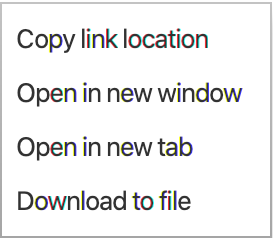
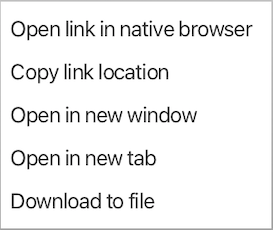
updated screenshots, added spacing

Changed region(s): [[0.0, 0.0, 1.0, 1.0]]

diff --git a/docs/Quick_Tour_of_Cytoscape.md b/docs/Quick_Tour_of_Cytoscape.md
@@ -236,17 +236,18 @@ An example where a number of networks have been loaded is shown below:
 
 The network manager (in the **Control Panel**) shows the networks that are
 loaded. Clicking on a network here will make that view active in the
-main window, if the view exists. Each network has a name and size
-(number of nodes and edges), which are shown in the network manager. The number 
-of nodes and edges is shown by default but this can be disabled under 
-**Options → Show Number of Nodes and Edges**. 
-If a network is loaded from a file, the network name is the name of the
-file. The list of networks can be sorted alphabetically by network name by clicking on the 
-**Options** button at the top right and selecting **Sort Network by Name**. 
-By default, the network provenance history is also shown in the **Network Panel**, for example
-showing if a network originated as a subnetwork from another network. This can be disabled under 
-**Options → Show Network Provenance History**.
+main window, if the view exists. 
+-   Each network has a name and size (number of nodes and edges), which are shown in the network manager. 
+    The number of nodes and edges is shown by default but this can be disabled under **Options → Show Number of Nodes and Edges**. 
 
+-   If a network is loaded from a file, the network name is the name of the
+    file. The list of networks can be sorted alphabetically by network name by clicking on the 
+    **Options** button at the top right and selecting **Sort Network by Name**. 
+
+-   By default, the network provenance history is also shown in the **Network Panel**, for example
+    showing if a network originated as a subnetwork from another network. This can be disabled under 
+    **Options → Show Network Provenance History**.
+  
 Some networks are very large (thousands of nodes and edges) and can take
 a long time to display. For this reason, a network in Cytoscape may not
 contain a view. Networks that have a view are in normal black font and

diff --git a/docs/CyBrowser.md b/docs/CyBrowser.md
@@ -2,9 +2,9 @@
 # Cytoscape Web Browser
 
 Cytoscape includes a simple web browser that can be used for viewing 
-web sites from within Cytoscape.  It is also used by Cytoscape apps,
+web sites from within Cytoscape. It is also used by Cytoscape apps,
 link outs, displaying the user manual, and displaying interactive
-tutorials.  Typically the browser is activated automatically, but you
+tutorials. Typically the browser is activated automatically, but you
 can bring up a browser window yourself by using
 **Tools → Open web page**, or clicking on the **Cytoscape Web Browser**
 ![](_static/images/CyBrowser/WebIcon.png)
@@ -23,11 +23,11 @@ the <a href="#cybrowser_results">Cytoscape Results Panel</a>.
 The main **Cytoscape Web Browser** window provides a very rudimentary browsing interface, with
 forward/back buttons, a text field to enter a new URL, and a **Go** button to 
 move to the new page.  In addition, there three context menus:
-1. **Selected text**
-   The selected text menu has just one item: **Copy**, which copies the selected
+1. **Selected text**: 
+   The selected text menu has just one item, **Copy**, which copies the selected
    text.
-2. **Link**
-   Using the link menu, users can copy the link location, open the link in a new window,
+2. **Link**: 
+   Using the link menu, users can copy the link location, open the link in a new window or the computer's native browser,
    or open the link in a new tab.  They can also use this to download the link target to
    a file.
    

diff --git a/docs/Styles.md b/docs/Styles.md
@@ -876,8 +876,9 @@ assign up to nine images per node as a part of a style.
     the following:
 
     ![](_static/images/Styles/CustomGraphicsNodes310.png)
+    <br>
 
-11. Open the Image Manager under **View → Open Image Manager...**. Download this icon 
+11. Open the Image Manager under **View → Open Image Manager...**. Download this exclamation mark icon 
     ![](_static/images/Styles/sampleImage2.png)
     and then add it to Image Manager by clicking the **Add Images** button and then selecting the downloaded icon.
 
@@ -909,7 +910,7 @@ assign up to nine images per node as a part of a style.
 
     Now the important nodes in the network (nodes with high [betweenness
     centrality](http://en.wikipedia.org/wiki/Betweenness_centrality))
-    are annotated with the icon:
+    are annotated with the exclamation mark icon:
 
     ![](_static/images/Styles/CustomGraphicsNodes2_310.png)
 
